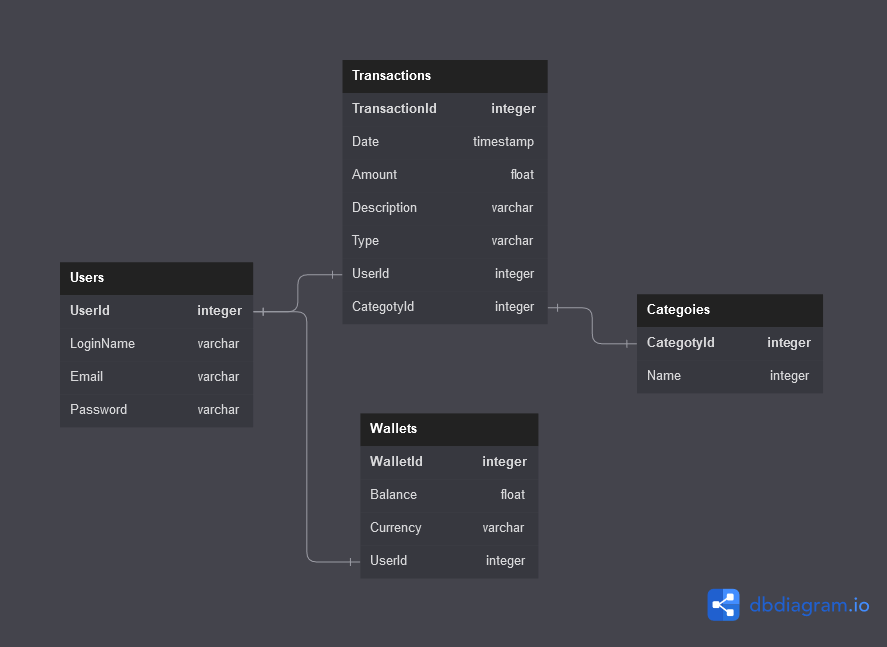
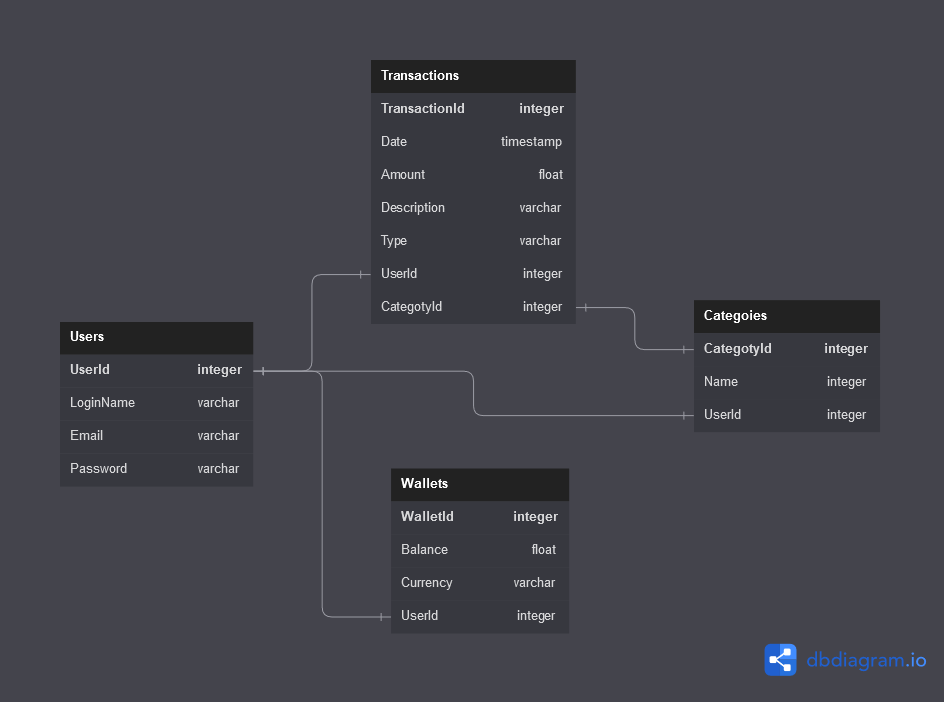
Add column UserId to Categories table

diff --git a/create_database.py b/create_database.py
@@ -20,6 +20,8 @@ if __name__ == "__main__":
     CREATE TABLE Categories(
         CategoryId INTEGER PRIMARY KEY AUTOINCREMENT,
         Name VARCHAR(50)
+        UserId int,
+        FOREIGN KEY(UserId) REFERENCES Users(UserId)
         );
     """
 
